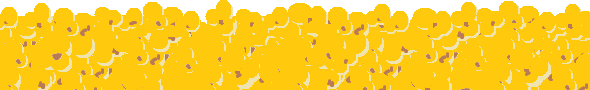
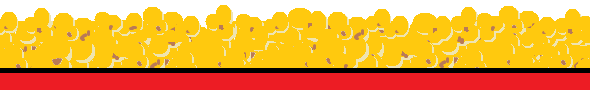
Completes content frame styling

diff --git a/app/assets/stylesheets/layout.scss b/app/assets/stylesheets/layout.scss
@@ -2,94 +2,94 @@ html {
 	background-color: #881122;
 }
 
+h1 {
+	font-family: 'Baloo', cursive;
+}
+
+h3 {
+	font-family: 'Pacifico', cursive;
+}
+
 #container {
 	position: relative;
 	margin: 20px 80px;
 }
 
-#box-top-left {
+#frame {
+	display: block;
+	background-color: #ed1c24;
+  height: 100%;
+	border-bottom: 5px solid black;
+}
+
+.frame-element {
 	position: absolute;
+	width: 71px;
+	background-color: #881122;
+}
+
+#box-top-left {
 	top: 0px;
 	left: 0px;
-	width: 71px;
-	height: 71px;
+	height: 90px;
 	z-index: 2;
-	background-image: url('box-top-left.png');
+	background-image: url('box-top-left2.png');
 }
 
 #box-top-right {
-	position: absolute;
 	top: 0px;
 	right: 0px;
-	width: 71px;
-	height: 71px;
+	height: 90px;
 	z-index: 2;
-	background-image: url('box-top-right.png');
+	background-image: url('box-top-right2.png');
 }
 
 #box-mid-left {
-	position: absolute;
 	top: 0px;
 	left: 0px;
-	width: 71px;
 	height: 100%;
 	z-index: 1;
-	background-image: url('box-mid-left.png');
 	background-repeat: repeat;
+	background-image: url('box-mid-left.png');
 }
 
 #box-mid-right {
-	position: absolute;
 	top: 0px;
 	right: 0px;
-	width: 71px;
 	height: 100%;
 	z-index: 1;
-	background-image: url('box-mid-right.png');
 	background-repeat: repeat;
+	background-image: url('box-mid-right.png');
 }
 
 #box-bottom-left {
-	position: absolute;
 	bottom: 0px;
 	left: 0px;
-	width: 71px;
 	height: 71px;
 	z-index: 1;
 	background-image: url('box-bottom-left.png');
 }
 
 #box-bottom-right {
-	position: absolute;
 	bottom: 0px;
 	right: 0px;
-	width: 71px;
 	height: 71px;
 	z-index: 1;
 	background-image: url('box-bottom-right.png');
 }
 
 #popcorn {
-	position: absolute;
 	top: 0px;
 	left: 0px;
 	width: 100%;
-	height: 43px;
+	height: 90px;
 	z-index: 2;
-	background-image: url('popcorn.png');
+	background-image: url('popcorn2.png');
 	background-repeat: repeat-x;
-	background-position: center bottom;
-	border-top: 5px solid black;
-	border-bottom: 6px solid black;
-}
-
-.cmon {
-	// height: 20px;
+	background-position: center;
 }
 
 #content {
-	display: block;
-	background-color: #ed1c24;
-  height: 100%;
-	border-bottom: 5px solid black;
+	padding-left: 90px;
+	font-family: 'Pacifico', cursive;
 }
